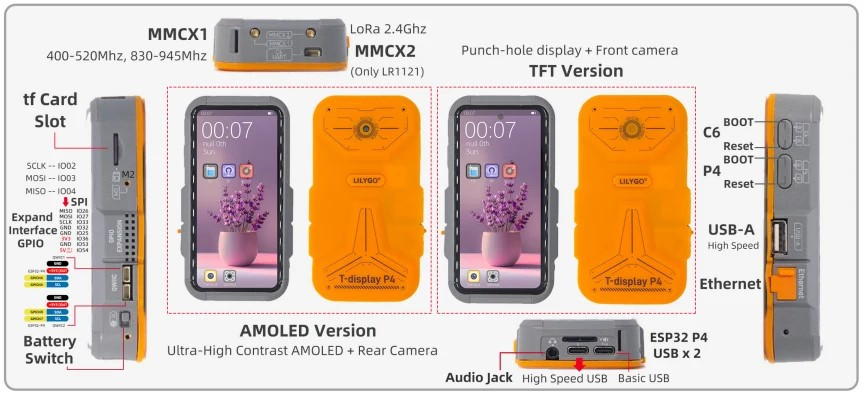
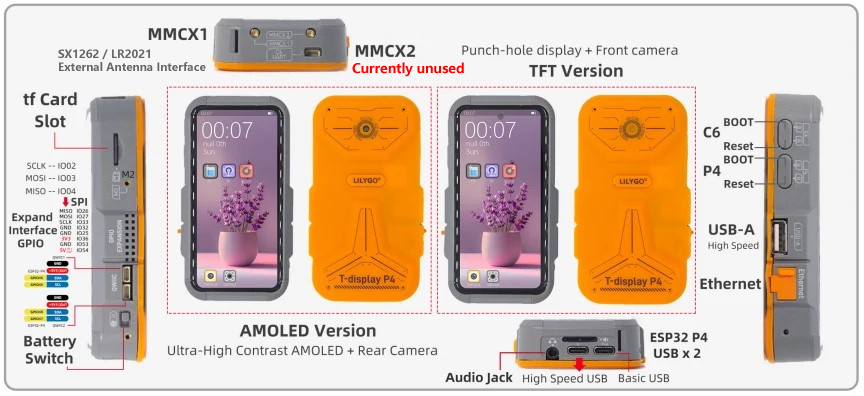
docs: add MMCX antenna connector notes and image #28

Changed region(s): [[0.0312, 0.1212, 0.25, 0.1818], [0.4062, 0.1515, 0.5625, 0.2121], [0.4062, 0.0606, 0.5, 0.0909]]

diff --git a/README.md b/README.md
@@ -54,6 +54,18 @@ Do not bypass the battery protection circuit. If the external charger cannot rec
 
 <p align="center"><em>Example of a dedicated external 18650 charger; the pictured brand is not required or endorsed. Photo: <a href="https://commons.wikimedia.org/wiki/File:Four_18650_lithium_cells_in_a_Liitokala_PL4_charger.jpg">Retired electrician / Wikimedia Commons</a>, CC0 1.0.</em></p>
 
+### LoRa External Antenna Connectors
+
+- `MMCX1` is the external antenna connector for the onboard `SX1262` or `LR2021` radio.
+- `MMCX2` is not connected to any antenna or radio circuit and is currently unused. Do not use it as an antenna connector.
+
+> [!WARNING]
+> Before selecting the external antenna path or transmitting, connect a suitable antenna to `MMCX1`. Transmitting without a suitable antenna connected may damage the RF circuit.
+
+<p align="center">
+  <img src="image/8.jpg" alt="MMCX1 and MMCX2 connector description" width="430">
+</p>
+
 ## Preview
 
 <p align="center">
